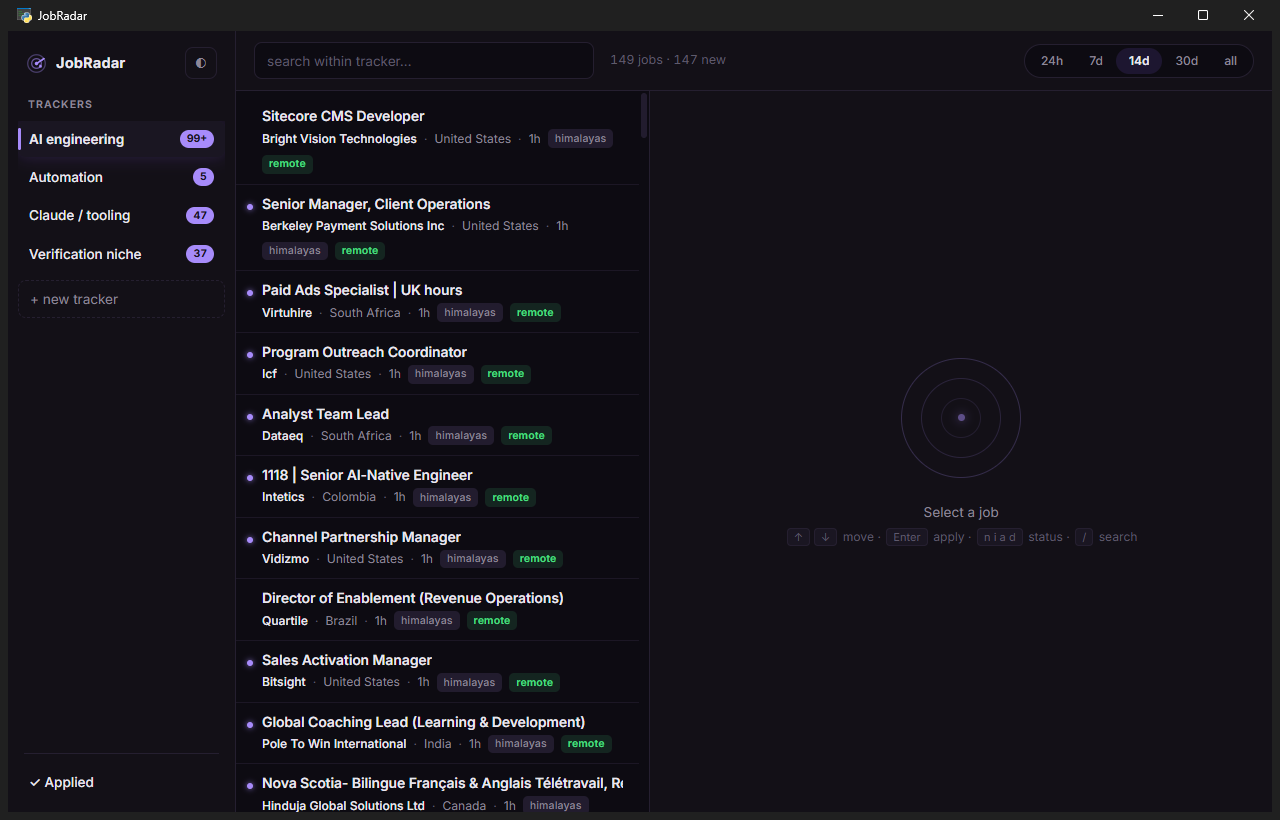
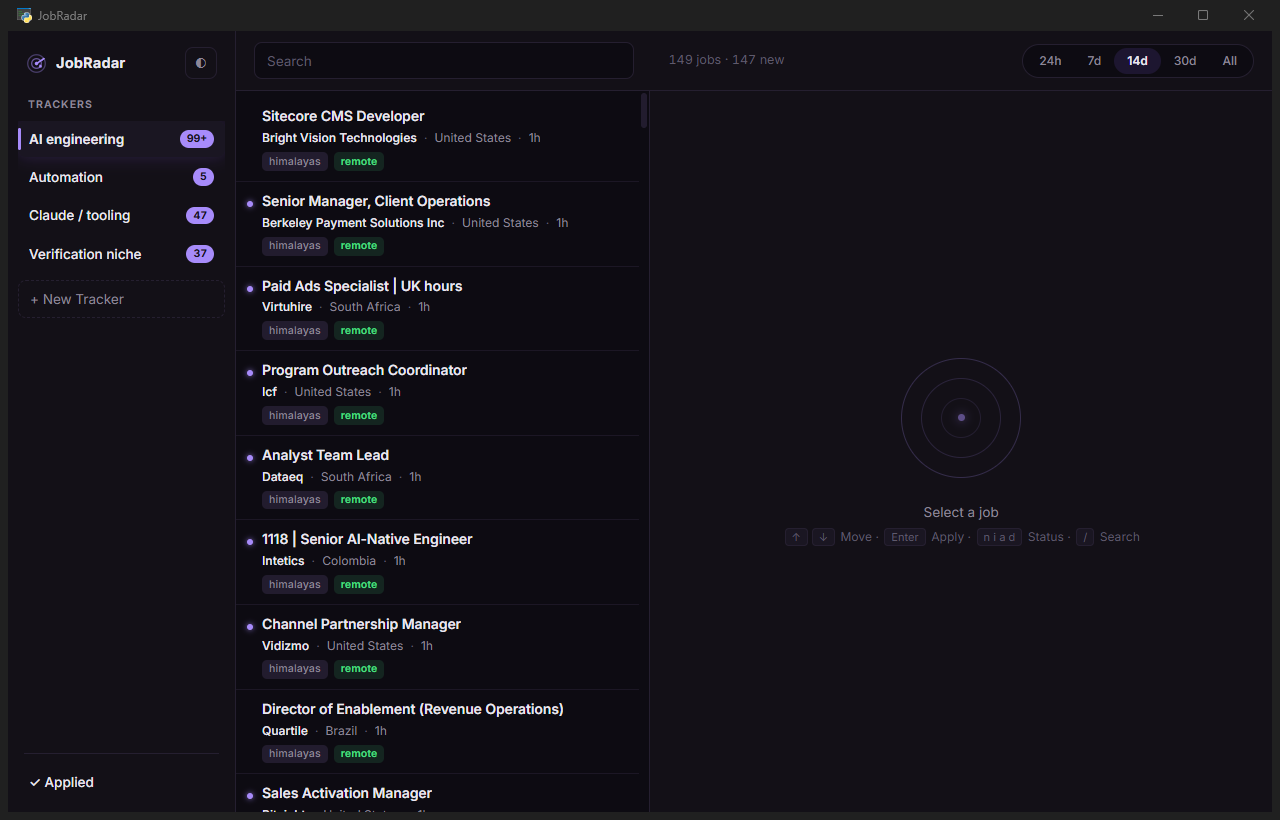
Feedback pass: search aligned to the column split, badges on their own line, form rebuilt
Topbar zones mirror the column widths so the search field ends exactly
at the list/detail divider. Row badges always render as a second line
instead of wrapping unpredictably. Tracker form: chip inputs no longer
double-border, Region is a proper dropdown (Georgia the country,
Caucasus, EMEA, Global) instead of free-text keys, and UI strings are
consistently capitalized.

diff --git a/app/web/app.js b/app/web/app.js
@@ -170,13 +170,16 @@ function renderResults() {
     if (j.company) meta.append(el("span", "co m", j.company));
     if (j.location_raw) meta.append(el("span", "m", j.location_raw));
     meta.append(el("span", "m", timeAgo(j.posted_at) + (j.posted_at_confident ? "" : "?")));
-    if (j.sources?.length) meta.append(el("span", "badge b-src", srcBase(j.sources[0])));
-    if (j.source_count > 1) meta.append(el("span", "badge b-src", "×" + j.source_count));
-    if (j.remote_flag) meta.append(el("span", "badge b-remote", "remote"));
-    for (const f of (j.geo_flags || []).slice(0, 2)) {
-      meta.append(el("span", "badge b-geo", "⚠ " + f));
-    }
     row.append(meta);
+
+    const badges = el("div", "row-badges");   // always its own line, never inline
+    if (j.sources?.length) badges.append(el("span", "badge b-src", srcBase(j.sources[0])));
+    if (j.source_count > 1) badges.append(el("span", "badge b-src", "×" + j.source_count));
+    if (j.remote_flag) badges.append(el("span", "badge b-remote", "remote"));
+    for (const f of (j.geo_flags || []).slice(0, 2)) {
+      badges.append(el("span", "badge b-geo", "⚠ " + f));
+    }
+    row.append(badges);
 
     row.addEventListener("click", () => selectRow(i));
     row.addEventListener("contextmenu", (e) => {
@@ -230,7 +233,7 @@ function emptyDetail(d) {
   box.append(rings);
   box.append(el("div", null, "Select a job"));
   const hints = el("div", "key-hints");
-  hints.innerHTML = "<kbd>↑</kbd><kbd>↓</kbd> move · <kbd>Enter</kbd> apply · <kbd>n i a d</kbd> status · <kbd>/</kbd> search";
+  hints.innerHTML = "<kbd>↑</kbd><kbd>↓</kbd> Move · <kbd>Enter</kbd> Apply · <kbd>n i a d</kbd> Status · <kbd>/</kbd> Search";
   box.append(hints);
   d.append(box);
 }
@@ -253,7 +256,7 @@ async function renderDetailForSelection() {
   if (full.company) w.append(el("div", "d-co", full.company));
   const meta = el("div", "d-meta");
   if (full.location_raw) meta.append(el("span", "m", full.location_raw));
-  if (full.posted_at) meta.append(el("span", "m", "posted " + timeAgo(full.posted_at) + " ago" + (full.posted_at_confident ? "" : " (approx)")));
+  if (full.posted_at) meta.append(el("span", "m", "Posted " + timeAgo(full.posted_at) + " ago" + (full.posted_at_confident ? "" : " (approx)")));
   if (full.salary_raw) meta.append(el("span", "m", full.salary_raw));
   if (full.employment_type) meta.append(el("span", "m", full.employment_type));
   if (full.sources?.length) meta.append(el("span", "m", "via " + full.sources.map(srcBase).join(", ")));
@@ -277,7 +280,7 @@ async function renderDetailForSelection() {
 
   const seg = el("div", "seg");
   for (const s of ["new", "interesting", "applied", "dead"]) {
-    const b = el("button", null, s);
+    const b = el("button", null, s[0].toUpperCase() + s.slice(1));
     if (full.status === s) b.classList.add("active");
     b.addEventListener("click", () => setStatus(full.id, s));
     seg.append(b);
@@ -287,7 +290,7 @@ async function renderDetailForSelection() {
 
   const notes = el("textarea");
   notes.id = "d-notes";
-  notes.placeholder = "notes… (autosaves)";
+  notes.placeholder = "Notes — autosaves";
   notes.value = full.notes || "";
   notes.addEventListener("blur", () => api().save_note(full.id, notes.value));
   w.append(notes);
@@ -346,8 +349,8 @@ function appliedRow(j, pending) {
   const t = el("div", "row-title", j.title + (j.company ? " — " + j.company : ""));
   main.append(t);
   const when = pending
-    ? "clicked " + timeAgo(j.apply_clicked_at) + " ago"
-    : "applied " + timeAgo(j.applied_at || j.apply_clicked_at) + " ago";
+    ? "Clicked " + timeAgo(j.apply_clicked_at) + " ago"
+    : "Applied " + timeAgo(j.applied_at || j.apply_clicked_at) + " ago";
   const sub = el("div", "applied-note", when + (j.notes ? "  ·  " + j.notes : ""));
   main.append(sub);
   main.addEventListener("click", () => api().open_url(j.apply_url));
@@ -432,7 +435,7 @@ let editingId = null;
 
 function openModal(tracker) {
   editingId = tracker ? tracker.id : null;
-  $("#modal-title").textContent = tracker ? "Edit tracker" : "New tracker";
+  $("#modal-title").textContent = tracker ? "Edit Tracker" : "New Tracker";
   $("#f-name").value = tracker ? tracker.name : "";
   chipInputs.include.set(tracker?.include_terms);
   chipInputs.exclude.set(tracker?.exclude_terms);
@@ -441,7 +444,9 @@ function openModal(tracker) {
   document.querySelectorAll("#f-window .chip").forEach((c) =>
     c.classList.toggle("active", c.dataset.w === win));
   $("#f-locmode").value = tracker?.location_mode || "any";
-  $("#f-locvalue").value = tracker?.location_value || "";
+  const lv = tracker?.location_value || "";
+  $("#f-locvalue").value = lv;
+  $("#f-locregion").value = ["georgia", "caucasus", "emea", "global"].includes(lv) ? lv : "georgia";
   updateLocValue();
   $("#f-delete").hidden = !tracker;
   $("#modal-backdrop").hidden = false;
@@ -450,13 +455,16 @@ function openModal(tracker) {
 
 function updateLocValue() {
   const mode = $("#f-locmode").value;
-  $("#f-locvalue-wrap").hidden = !(mode === "text" || mode === "region");
-  $("#f-locvalue-label").textContent = mode === "region"
-    ? "Region (georgia / caucasus / emea / global)" : "Text to match";
+  const isRegion = mode === "region";
+  $("#f-locvalue-wrap").hidden = !(mode === "text" || isRegion);
+  $("#f-locvalue-label").textContent = isRegion ? "Region" : "Text to Match";
+  $("#f-locvalue").hidden = isRegion;
+  $("#f-locregion").hidden = !isRegion;
 }
 
 async function saveModal() {
   const win = document.querySelector("#f-window .chip.active")?.dataset.w || "14d";
+  const mode = $("#f-locmode").value;
   const res = await api().save_tracker({
     id: editingId,
     name: $("#f-name").value,
@@ -464,8 +472,8 @@ async function saveModal() {
     exclude_terms: chipInputs.exclude.get(),
     exclude_companies: chipInputs.excludeCo.get(),
     date_window: win,
-    location_mode: $("#f-locmode").value,
-    location_value: $("#f-locvalue").value,
+    location_mode: mode,
+    location_value: mode === "region" ? $("#f-locregion").value : $("#f-locvalue").value,
   });
   $("#modal-backdrop").hidden = true;
   await refreshTrackers();

diff --git a/app/web/index.html b/app/web/index.html
@@ -23,7 +23,7 @@
 
     <div class="side-label">Trackers</div>
     <nav id="tracker-list"></nav>
-    <button id="new-tracker" class="side-new">+ new tracker</button>
+    <button id="new-tracker" class="side-new">+ New Tracker</button>
 
     <div class="side-spacer"></div>
     <div class="side-divider"></div>
@@ -37,15 +37,19 @@
     <div id="banner" hidden></div>
 
     <header id="topbar">
-      <input id="search" type="search" placeholder="search within tracker…"
-             autocomplete="off" spellcheck="false">
-      <span id="result-count"></span>
-      <div id="window-chips" class="chips">
-        <button class="chip" data-w="24h">24h</button>
-        <button class="chip" data-w="7d">7d</button>
-        <button class="chip" data-w="14d">14d</button>
-        <button class="chip" data-w="30d">30d</button>
-        <button class="chip" data-w="all">all</button>
+      <div class="topbar-left">
+        <input id="search" type="search" placeholder="Search"
+               autocomplete="off" spellcheck="false">
+      </div>
+      <div class="topbar-right">
+        <span id="result-count"></span>
+        <div id="window-chips" class="chips">
+          <button class="chip" data-w="24h">24h</button>
+          <button class="chip" data-w="7d">7d</button>
+          <button class="chip" data-w="14d">14d</button>
+          <button class="chip" data-w="30d">30d</button>
+          <button class="chip" data-w="all">All</button>
+        </div>
       </div>
     </header>
 
@@ -67,48 +71,50 @@
 
 <div id="modal-backdrop" hidden>
   <div id="tracker-modal">
-    <h2 id="modal-title">New tracker</h2>
+    <h2 id="modal-title">New Tracker</h2>
     <label>Name
       <input id="f-name" type="text" placeholder="AI engineering">
     </label>
-    <label>Include terms <span class="hint">any match · Enter adds</span>
+    <label>Include Terms <span class="hint">any match · Enter adds</span>
       <div class="chip-input" id="f-include"></div>
     </label>
-    <label>Exclude terms <span class="hint">optional</span>
+    <label>Exclude Terms <span class="hint">optional</span>
       <div class="chip-input" id="f-exclude"></div>
     </label>
-    <label>Exclude companies <span class="hint">optional</span>
+    <label>Exclude Companies <span class="hint">optional</span>
       <div class="chip-input" id="f-exclude-co"></div>
     </label>
-    <div class="form-row">
-      <label>Window
-        <div class="chips" id="f-window">
-          <button class="chip" data-w="24h">24h</button>
-          <button class="chip" data-w="7d">7d</button>
-          <button class="chip active" data-w="14d">14d</button>
-          <button class="chip" data-w="30d">30d</button>
-          <button class="chip" data-w="all">all</button>
-        </div>
-      </label>
-    </div>
-    <div class="form-row">
-      <label>Location
-        <select id="f-locmode">
-          <option value="any">any — badges still shown</option>
-          <option value="remote">remote — and no hard geo blockers</option>
-          <option value="text">text match…</option>
-          <option value="region">region…</option>
-        </select>
-      </label>
-      <label id="f-locvalue-wrap" hidden><span id="f-locvalue-label">Value</span>
-        <input id="f-locvalue" type="text">
-      </label>
-    </div>
+    <label>Window
+      <div class="chips" id="f-window">
+        <button class="chip" data-w="24h">24h</button>
+        <button class="chip" data-w="7d">7d</button>
+        <button class="chip active" data-w="14d">14d</button>
+        <button class="chip" data-w="30d">30d</button>
+        <button class="chip" data-w="all">All</button>
+      </div>
+    </label>
+    <label>Location
+      <select id="f-locmode">
+        <option value="any">Anywhere — geo badges still shown</option>
+        <option value="remote">Remote — and no hard geo blockers</option>
+        <option value="text">Location contains text…</option>
+        <option value="region">Region…</option>
+      </select>
+    </label>
+    <label id="f-locvalue-wrap" hidden><span id="f-locvalue-label">Text to Match</span>
+      <input id="f-locvalue" type="text" placeholder="e.g. Tbilisi, Europe, EMEA">
+      <select id="f-locregion" hidden>
+        <option value="georgia">Georgia — the country, Atlanta filtered out</option>
+        <option value="caucasus">Caucasus — Georgia · Armenia · Azerbaijan</option>
+        <option value="emea">EMEA / Europe</option>
+        <option value="global">Global — worldwide, anywhere</option>
+      </select>
+    </label>
     <div class="modal-actions">
-      <span id="f-delete" class="danger-link" hidden>Delete tracker</span>
+      <span id="f-delete" class="danger-link" hidden>Delete Tracker</span>
       <span class="flex-spacer"></span>
       <button id="f-cancel" class="btn-quiet">Cancel</button>
-      <button id="f-save" class="btn-primary">Save tracker</button>
+      <button id="f-save" class="btn-primary">Save Tracker</button>
     </div>
   </div>
 </div>

diff --git a/app/web/style.css b/app/web/style.css
@@ -167,14 +167,26 @@ button { font: inherit; color: inherit; }
 }
 
 #topbar {
-  display: flex; align-items: center; gap: 16px;
-  padding: 11px 18px;
+  display: flex; align-items: center;
+  padding: 11px 0;
   border-bottom: 1px solid var(--border);
   background: var(--panel);
 }
 
+/* left zone mirrors the results column width so the search field's edge
+   lands exactly on the list/detail split */
+.topbar-left {
+  flex: 0 0 clamp(380px, 40%, 560px);
+  padding: 0 16px 0 18px;
+}
+.topbar-right {
+  flex: 1; min-width: 0;
+  display: flex; align-items: center; gap: 16px;
+  padding: 0 18px 0 18px;
+}
+
 #search {
-  flex: none; width: 340px;
+  width: 100%;
   background: var(--bg); color: var(--text);
   border: 1px solid var(--border); border-radius: 8px;
   padding: 7.5px 12px;
@@ -262,6 +274,10 @@ button { font: inherit; color: inherit; }
   content: "·";
   color: var(--text-faint);
   margin-right: 7px;
+}
+.row-badges {
+  margin-top: 5px;
+  display: flex; align-items: center; gap: 6px; flex-wrap: wrap;
 }
 
 .row.st-interesting::after {
@@ -526,10 +542,15 @@ button { font: inherit; color: inherit; }
 }
 .chip-input .tag b { cursor: pointer; font-weight: 600; color: var(--text-dim); }
 .chip-input .tag b:hover { color: var(--danger); }
+/* the inner chip-input field must NOT pick up the modal's generic input
+   styling (that's the double-border bug) — id+attr specificity to win */
+#tracker-modal .chip-input input[type=text],
 .chip-input input {
+  display: inline-block; width: auto;
   border: 0; background: none; color: var(--text);
   font: inherit; font-size: 12.5px;
   flex: 1; min-width: 80px;
+  margin-top: 0;
   padding: 3px 5px;
   outline: none;
 }

diff --git a/app/api.py b/app/api.py
@@ -160,6 +160,8 @@ class Api:
             "location_mode": fields.get("location_mode") or "any",
             "location_value": (fields.get("location_value") or "").strip() or None,
         }
+        if cols["location_mode"] == "region" and cols["location_value"]:
+            cols["location_value"] = cols["location_value"].lower()
         with self._db().cursor() as cur:
             if fields.get("id"):
                 cur.execute(
